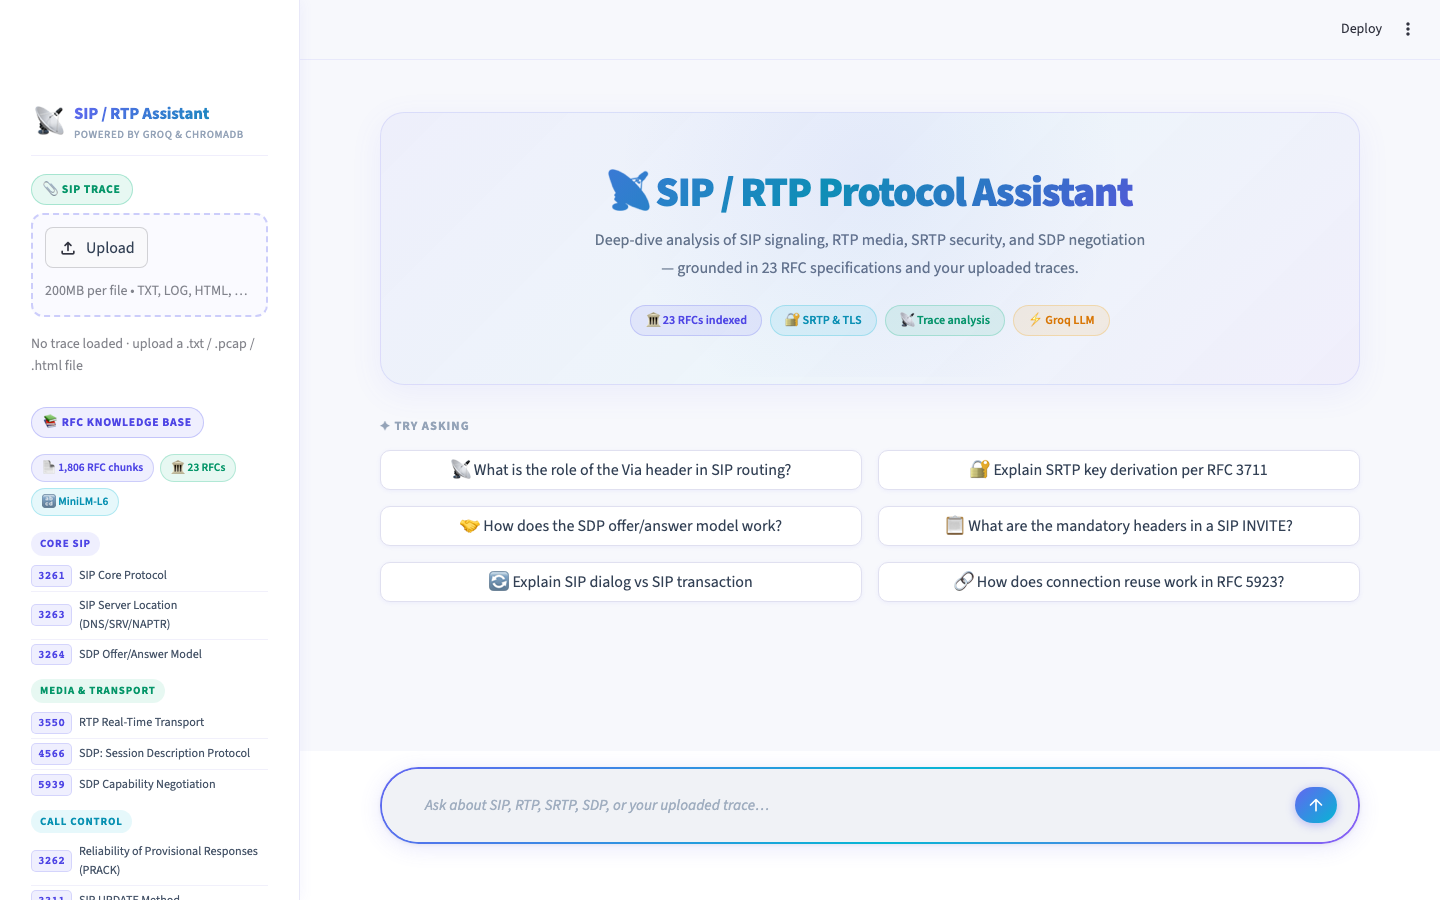
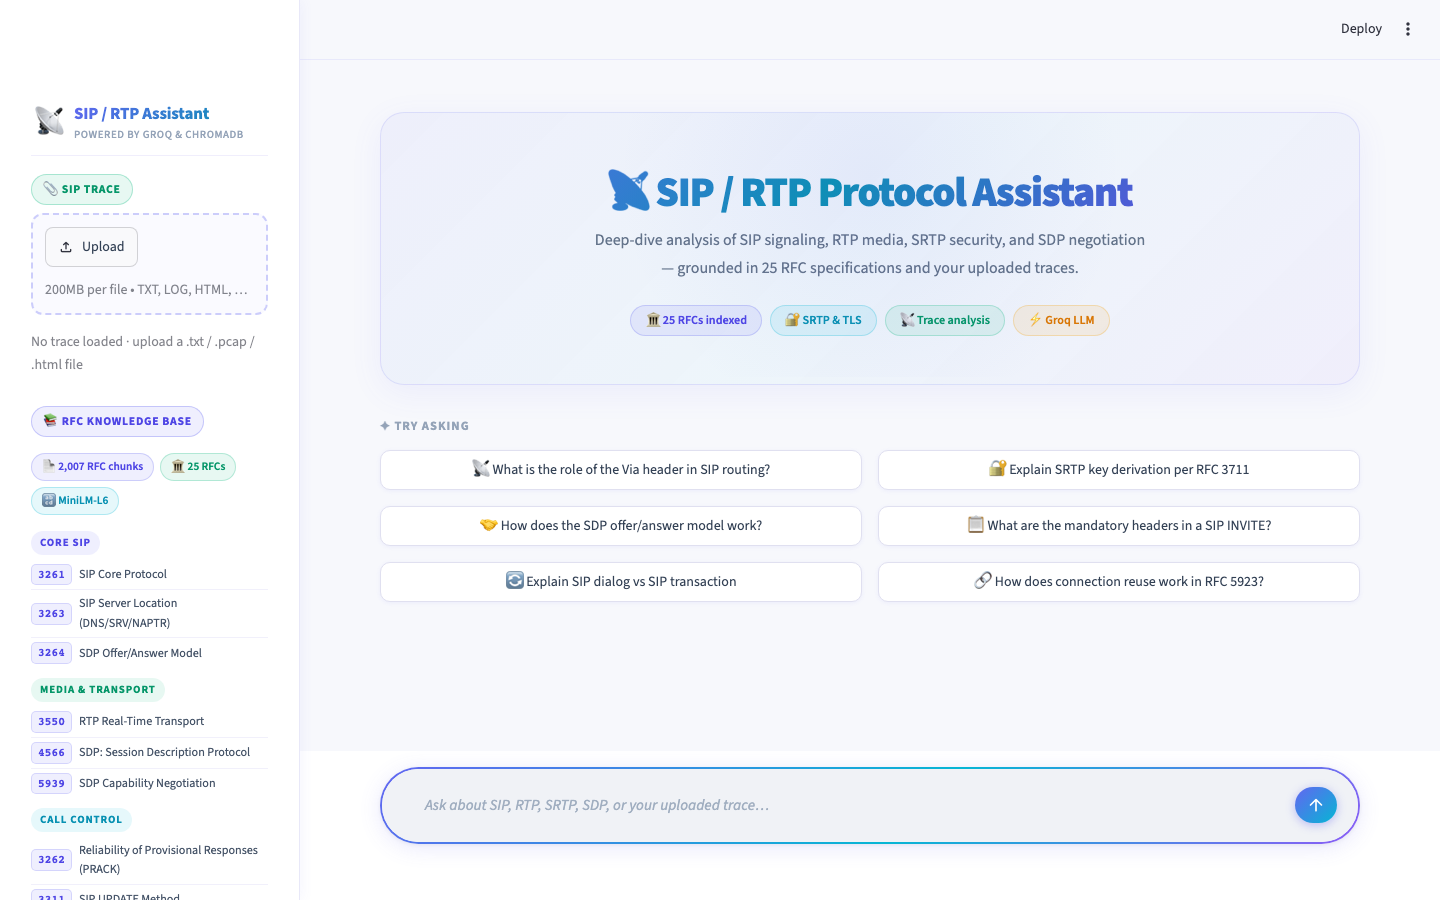
Update screenshots — add observability sidebar, refresh landing and answer
• 01_landing.png   — refreshed landing page with updated hero badges
• 02_sidebar_rfcs.png — refreshed sidebar with RFC knowledge base
• 03_observability_sidebar.png — new: RAG Triad scores (1.00 / 0.67 / 0.63)
  and TruLens Dashboard button in the Observability sidebar section
• 04_answer_tall.png — refreshed answer with Agent Reasoning expander visible
• README.md: added screenshot entry for 03_observability_sidebar.png

diff --git a/README.md b/README.md
@@ -16,9 +16,13 @@ Built with **LangGraph**, **Groq (Llama 4 Scout)**, **ChromaDB**, **Streamlit**,
 
 ![RFC Sidebar](docs/screenshots/02_sidebar_rfcs.png)
 
-**Chat response** — structured answer with inline RFC citations and response time
+**Chat response** — structured answer with inline RFC citations, Agent Reasoning expander, and response time
 
 ![Chat response with RFC citations](docs/screenshots/04_answer_tall.png)
+
+**Observability sidebar** — live RAG Triad scores (Answer Relevance, Context Relevance, Groundedness) and TruLens Dashboard button
+
+![Observability sidebar with RAG Triad scores](docs/screenshots/03_observability_sidebar.png)
 
 ---
 
